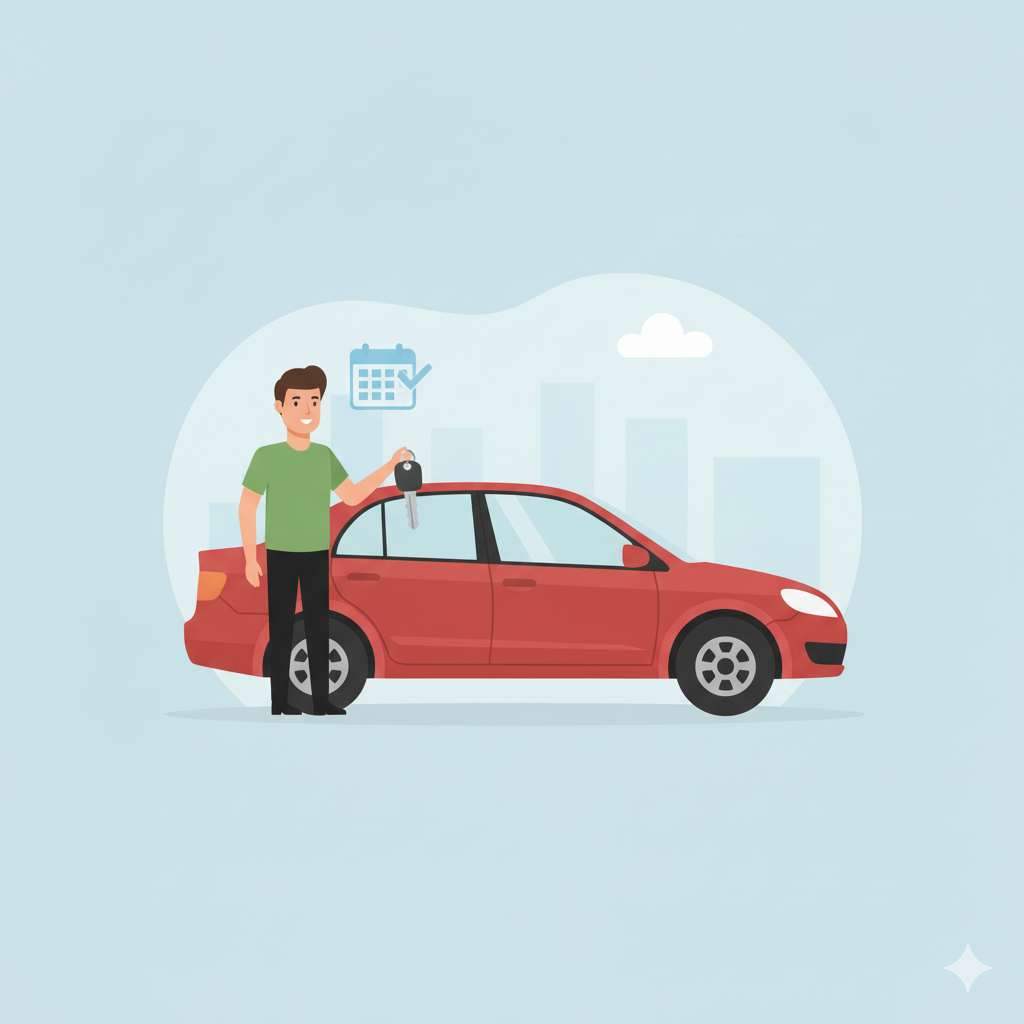
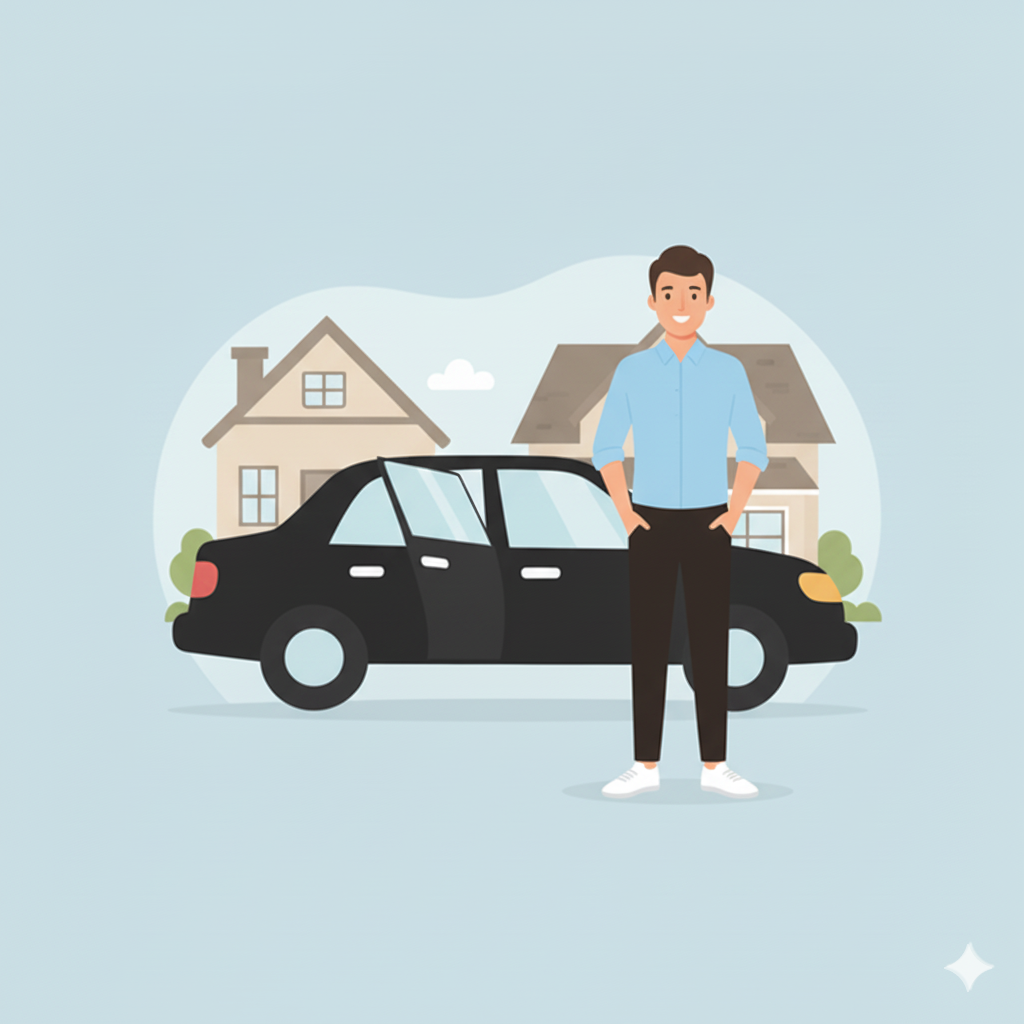
Add files via upload

Changed region(s): [[0.1562, 0.2188, 0.875, 0.7812]]

diff --git a/index.html b/index.html
@@ -69,15 +69,15 @@
         <div class="section-content">
             <div class="hero-details">
                 <h2 class="title"
-                data-section="hero" data-value="hero-title">De El Salvador para el mundo</h2>
+                data-section="hero" data-value="hero-title">Mi Chofer, es tu chofer</h2>
                 <h3 class="subtitle"
-                data-section="hero" data-value="hero-subtitle">Llevándote a donde quieres ir, sin preocupaciones</h3>  
+                data-section="hero" data-value="hero-subtitle">Nos concentramos únicamente en ti</h3>  
                     <p class="description"
                     data-section="hero" data-value="hero-description">Disfruta del lujo, la comodidad y la seguridad en cada traslado. 
                         Con nuestra plataforma puedes realizar desde un viaje corto, hasta disfrutar de la experienciade conducirte en vehiculos de lujo, con un 
                     chofer a tu disposición por el tiempo que decidas, de igual manera si cuentas con tu propio 
                     vehiculo y no quieres manejar, puedes optar a contratar a uno de nuestros choferes.</p>
-                
+
                     <div class="buttons" >
                         <a href="#" class="button-order-now"
                         data-section="hero-botton" data-value="order-now">Bajar la App</a>
@@ -105,6 +105,10 @@
             Somos una empresa 100% Salvadoreña, que busca ofrecerte “Una nueva forma de movilizarte”,
             tenemos una amplia gama de servicios diseñada para quienes buscan más 
             que solo transporte.
+            <h3>Nuestros chóferes:</h3> <br>Profesionales capacitados que te brindan seguridad, puntualidad y un servicio amable en cada viaje.
+            <br>
+            <br>
+            <h3>Nuestros vehículos:</h3> <br>Modernos, cómodos y en excelente estado, para garantizarte una experiencia de viaje confiable y placentera.
             </p>
             <div class="social-link-list">
                 <a href="#" class="social-link"><i class="fa-brands fa-facebook"></i></a>
@@ -134,7 +138,7 @@
               <div class="cards-content">
                 <div class="card">
                     <div class="card-inner">
-                        <div class="card-front">Verificación de Antecedentes de Conductores</div>
+                        <div class="card-front" id="card1"></div>
                         <div class="card-back">Todos nuestros choferes pasan por una rigurosa verificación 
                             de antecedentes penales y licencias antes de subirse al volante. 
                             Tu tranquilidad es nuestra prioridad.</div>
@@ -142,7 +146,7 @@
                 </div>
                 <div class="card">
                     <div class="card-inner">
-                        <div class="card-front">Inspección Rigurosa del Vehículo</div>
+                        <div class="card-front" id="card2"></div>
                         <div class="card-back">Realizamos inspecciones técnicas y mecánicas periódicas 
                             a todos los vehículos de nuestra flota. Garantizamos que cada auto esté en 
                             óptimas condiciones para tu seguridad y comodidad.</div>
@@ -150,14 +154,14 @@
                 </div>
                 <div class="card">
                     <div class="card-inner">
-                        <div class="card-front">Referencias Verificadas y Capacitación</div>
+                        <div class="card-front" id="card3"></div>
                         <div class="card-back">Solo contratamos choferes con referencias de trabajo verificadas. 
                             Además, reciben capacitación continua en atención al cliente y protocolos de seguridad.</div>
                     </div>
                 </div>
                 <div class="card">
                     <div class="card-inner">
-                        <div class="card-front">Seguridad Activa y Pasiva del Vehículo</div>
+                        <div class="card-front" id="card4"></div>
                         <div class="card-back">Exigimos que todos los vehículos registrados en MiChofer cuenten 
                             con los más altos estándares de seguridad activa y pasiva (bolsas de aire, frenos ABS, etc.). 
                             Nos aseguramos de que su auto cumpla con los requisitos de protección esenciales para sus pasajeros.</div>
@@ -175,7 +179,7 @@
         <div class="section-content">
             <ul class="services-list">
                 <li class="services-item">
-                    <img src="img/service.png" alt="Relax Mom" class="services-image">
+                    <img src="img/service.png" alt="One way" class="services-image">
                     <h3 class="name"
                     data-section="our-services" data-value="os-title0">One way</h3>
                     <p class="text"
@@ -183,7 +187,7 @@
                     <br><a class="oneway-botton" href="#gallery">Conoce más</a> </p>
                 </li>
                 <li class="services-item">
-                    <img src="img/service1.png" alt="Awful Mom" class="services-image">
+                    <img src="img/service1.png" alt="Outstation" class="services-image">
                     <h3 class="name"
                     data-section="our-services" data-value="os-title1">Outstation</h3>
                     <p class="text">Para viajes que se encuentran fuera de nuestra area de servicio regular
@@ -191,7 +195,7 @@
                     </p>
                 </li>
                 <li class="services-item">
-                    <img src="img/service2.png" alt="Niggator Mom" class="services-image">
+                    <img src="img/service2.png" alt="VIP Time Rentals" class="services-image">
                     <h3 class="name"
                     data-section="our-services" data-value="os-title2">VIP Time Rentals</h3>
                     <p class="text"
@@ -200,16 +204,33 @@
                 </p>
                 </li>
                 <li class="services-item">
-                    <img src="img/service3.png" alt="FitMom" class="services-image">
+                    <img src="img/service3.png" alt="MiChofer" class="services-image">
                     <h3 class="name"
-                    data-section="our-services" data-value="os-title3">Renta de vehiculo</h3>
+                    data-section="our-services" data-value="os-title3">MiChofer</h3>
                     <p class="text"
-                    data-section="our-services" data-value="os-description3">Reservas Digitales: Todo desde la App,¡Sin Complicaciones! 
-                    Alquila tu vehiculo directamente del propietario de forma segura y rápida.
+                    data-section="our-services" data-value="os-description3">Chofer a tu disposición y llega a la ubicación del vehiculo a manejar.
                     <br><a class="oneway-botton" href="#vip-gallery">Conoce más</a>   
                     </p>
                 </li>
-                
+            </ul>
+        </div>
+    </section>
+
+    <!-- Services section -->
+    <section class="services-section" id="services1">
+        <div class="section-content">
+            <ul class="services-list">
+                <li class="services-item">
+                    <img src="img/service4.png" alt="Renta de vehiculos" class="services-image">
+                    <h3 class="name"
+                    data-section="our-services" data-value="os-title0">Renta de vehiculos</h3>
+                    <p class="text"
+                    data-section="our-services" data-value="os-description0">Reservas Digitales: Todo desde la App, ¡Sin Complicaciones! 
+                    Alquila tu vehiculo directamente del propietario de forma segura y rápida.
+                    <br>
+                    </p>
+                    <button class="apply-now-btn">Aplica Ahora</button>
+                </li>
             </ul>
         </div>
     </section>

diff --git a/style.css b/style.css
@@ -381,6 +381,8 @@ header .navbar {
   margin: 1rem auto;
   perspective: 1000px;
   cursor: pointer;
+  transition: box-shadow 0.3s ease, transform 0.3s ease;
+  box-shadow: 0 4px 6px rgba(0, 0, 0, 0.1); /* Sombra sutil normal */
 }
 
 .card-inner {
@@ -391,7 +393,7 @@ header .navbar {
   transform-style: preserve-3d;
 }
 
-.card:hover .card-inner {
+.card.flipped .card-inner {
   transform: rotateY(180deg);
 }
 
@@ -422,8 +424,26 @@ header .navbar {
   padding: 25px;
 }
 
+.card:hover, .card.flipped {
+    box-shadow: 0 8px 15px rgba(0, 0, 0, 0.2); /* Sombra más intensa */
+    transform: translateY(-5px); /* Pequeña elevación */
+}
 
+#card1 {
+      background-image: url(img/card1.png);   
+}
 
+#card2 {
+      background-image: url(img/card2.png);   
+}
+
+#card3 {
+      background-image: url(img/card3.png);   
+}
+
+#card4 {
+      background-image: url(img/card4.png);   
+}
 
 /* Services Section */
 
@@ -468,6 +488,36 @@ header .navbar {
 
 .services-section .services-list .services-item .text {
     font-size: var(--font-size-m);
+}
+
+.services-section .services-list .services-item:last-child {
+            width: 100%; /* Ocupa todo el ancho disponible */
+            max-width: 500px; /* Limita el ancho del ítem para que no se estire demasiado */
+            margin-top: 50px; /* Separación de la fila de arriba */
+            margin-left: auto; /* Centrado horizontal */
+            margin-right: auto; /* Centrado horizontal */
+        }
+
+#services1 {
+    background-color: #94a5e4;
+}
+
+.apply-now-btn {
+    margin-top: 1.5rem;
+    padding: 10px 26px;
+    border: 2px solid transparent;
+    color: var(--white-color);
+    border-radius: var(--border-radius-m);
+    background: var(--dark-color);
+    font-weight: var(--font-weight-medium);
+    transition: 0.3s ease;
+    border-color: var(--white-color);
+}
+
+.apply-now-btn:hover {
+    color: var(--primary-color);
+    border-color: transparent;
+    background: var(--secondary-color);
 }
 
 /* Testimonials sectio styling */
@@ -694,6 +744,8 @@ header .navbar {
     .services-section .services-list .services-item {
         width: calc(100% / 3 - 60px);
     }
+
+    
     
 }
 
@@ -832,6 +884,8 @@ header .navbar {
         align-items: center;
         flex-direction: column-reverse;
     }
+
+    
 
 
 }

diff --git a/script.js b/script.js
@@ -72,3 +72,29 @@ langButtons.forEach((button) => {
       })
   })
 })
+
+
+// Cards mobile efect
+
+document.addEventListener('DOMContentLoaded', function() {
+        // Selecciona todas las tarjetas
+        const cards = document.querySelectorAll('.card');
+
+        cards.forEach(card => {
+            // Usa el evento click, que funciona bien para toques en móvil
+            card.addEventListener('click', function() {
+                // 1. Quitar la clase 'flipped' de cualquier otra tarjeta abierta (para desvoltearla)
+                cards.forEach(otherCard => {
+                    // Solo desvoltear si no es la tarjeta que acabamos de tocar
+                    if (otherCard !== card && otherCard.classList.contains('flipped')) {
+                        otherCard.classList.remove('flipped');
+                    }
+                });
+
+                // 2. Alternar la clase 'flipped' en la tarjeta actual
+                // Si ya estaba volteada (flipped), se quita la clase (vuelve al frente).
+                // Si no estaba volteada, se añade la clase (se voltea).
+                card.classList.toggle('flipped');
+            });
+        });
+    });
